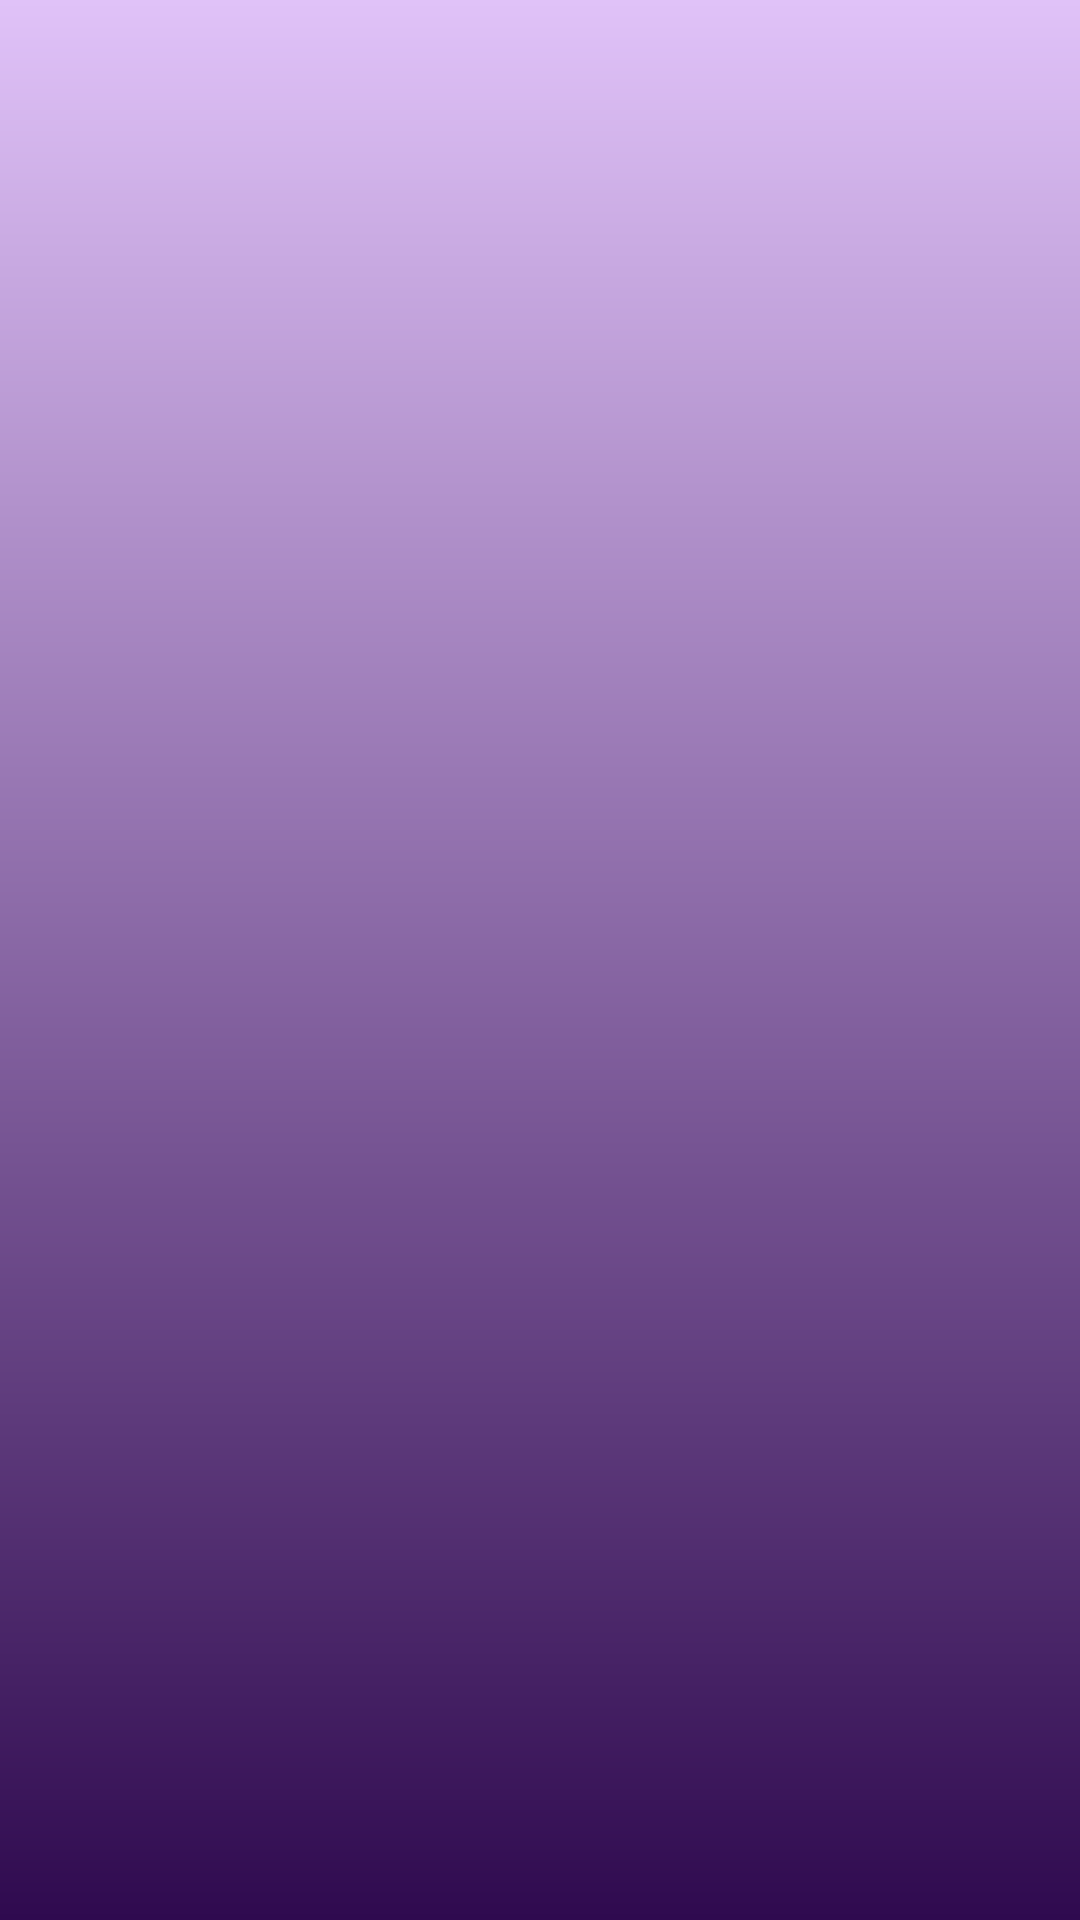
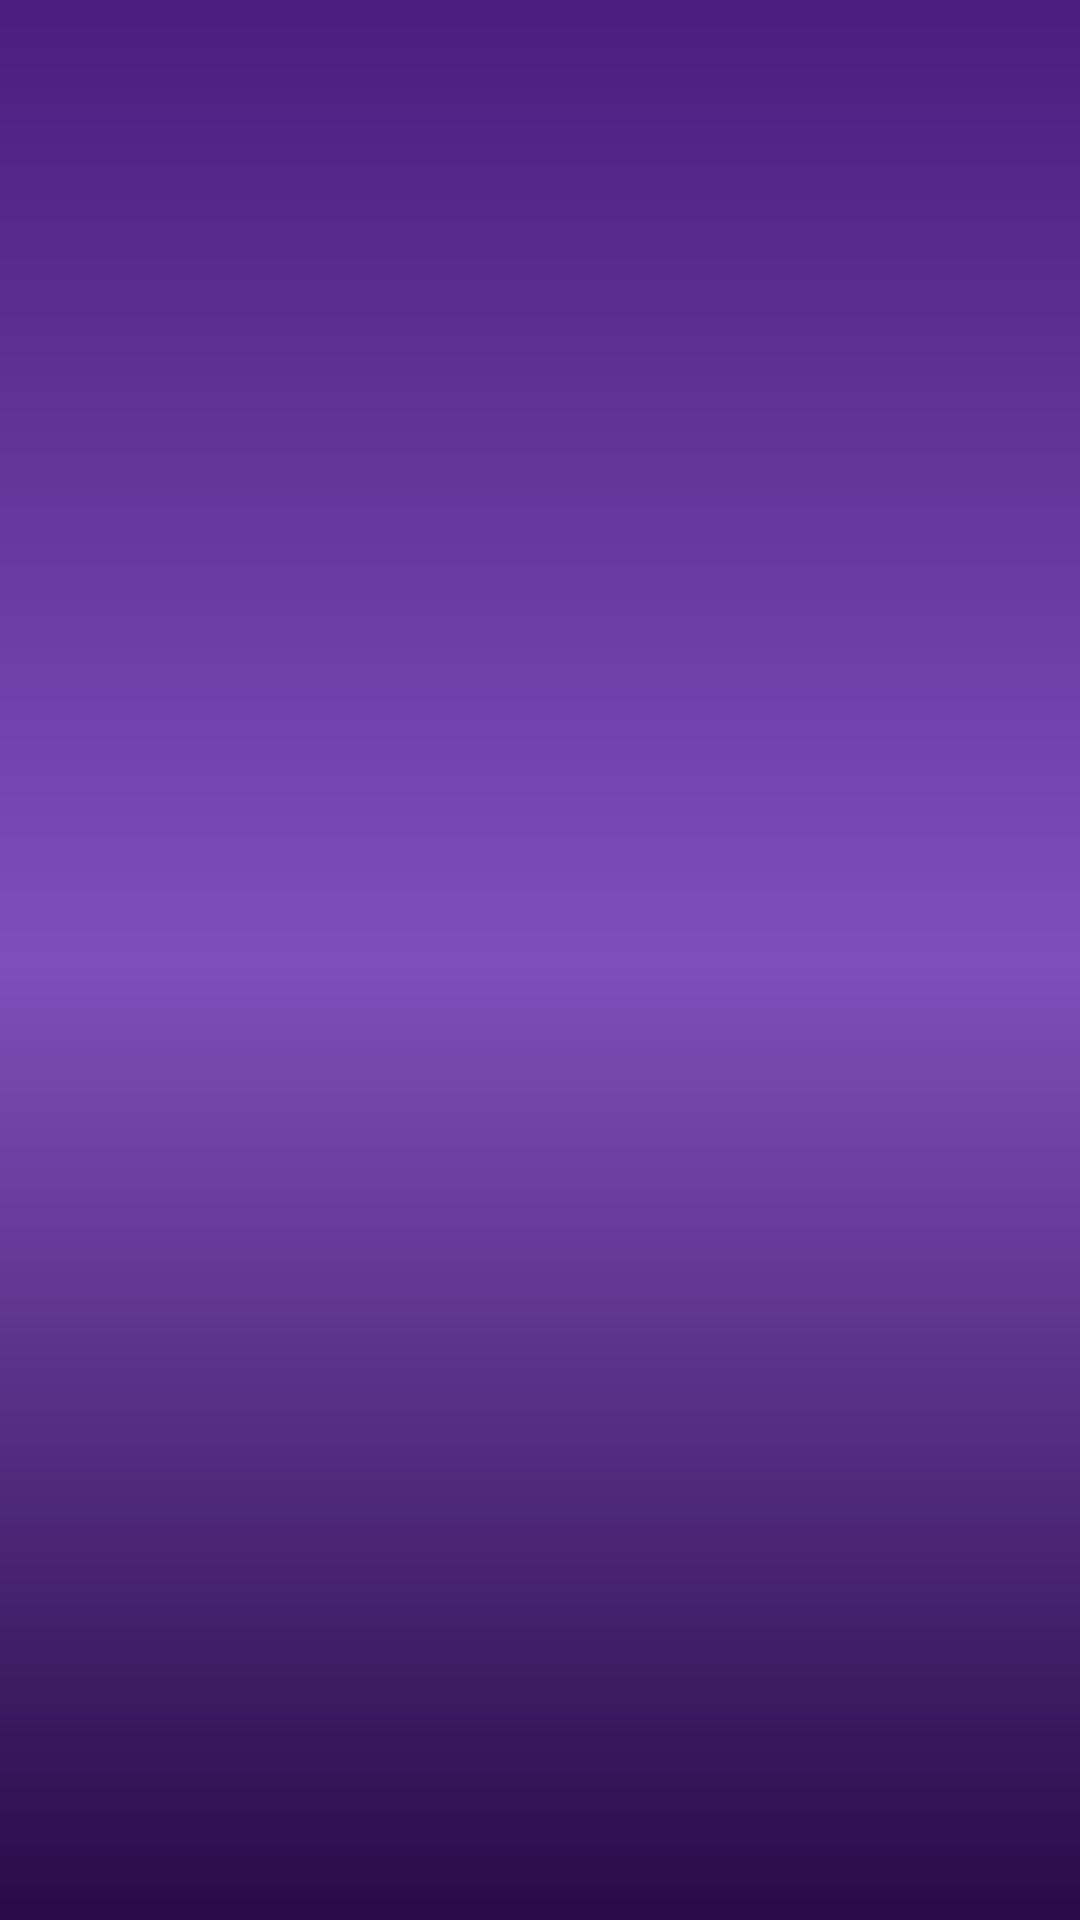
fix: escurece as pontas do degrade e cria fundo para o modo escuro
O topo do fundo era #DFC1F7 e o texto e branco, o que dava contraste
de 1.6 e deixava o titulo ilegivel na tela de login. O degrade passa a
ser escuro -> claro -> escuro (#4A1D7E -> #7E4FBA -> #2A0A47),
levando o pior contraste da tela para 5.65 (o minimo legivel e 4.5).

O modo escuro usava sempre o fundo claro, misturando fundo lilas com
cards escuros. Adiciona bg-app-dark.png, na paleta do tema DARK, e
troca a imagem de fundo conforme o tema em App.tsx.

O gerador de fundos passa a aceitar varios tons, para permitir degrades
com mais de dois extremos.

O centro do fundo escuro foi ajustado para #241236, o mesmo bg do tema,
pois os cards escuros sumiam no meio da tela (contraste 1.0).

diff --git a/App.tsx b/App.tsx
@@ -85,7 +85,11 @@ export default function App() {
   const navAtiva: Aba = tela === 'simulados' ? voltarPara : tela;
 
   return (
-    <ImageBackground source={require('./assets/bg-app.png')} resizeMode="cover" style={{ flex: 1, backgroundColor: t.bg }}>
+    <ImageBackground
+      source={dark ? require('./assets/bg-app-dark.png') : require('./assets/bg-app.png')}
+      resizeMode="cover"
+      style={{ flex: 1, backgroundColor: t.bg }}
+    >
       <StatusBar barStyle="light-content" />
       <View style={{ flex: 1 }}>
         {tela === 'inicio' && (
